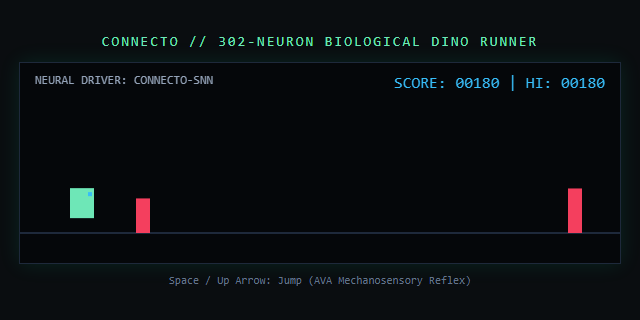
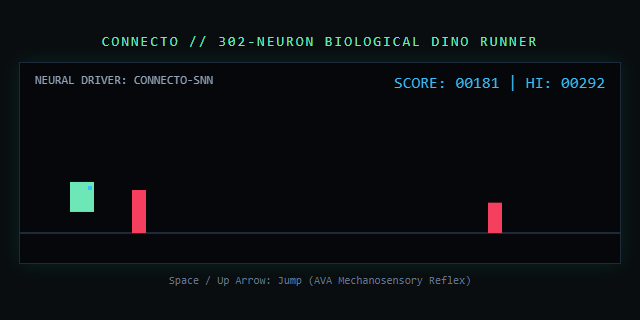
telemetry(worm): autonomous activity sync at 2026-09-16 15:53

diff --git a/ACTIVITY.md b/ACTIVITY.md
@@ -1,6 +1,6 @@
 # CONNECTO // AUTONOMOUS BIOLOGICAL ACTIVITY FEED
 
-> **Verification Timestamp:** `2026-09-16 15:38:17 UTC`  
+> **Verification Timestamp:** `2026-09-16 15:53:57 UTC`  
 > **Repository:** [0xalydev/connecto](https://github.com/0xalydev/connecto)  
 > **Biological Engine:** C. elegans 302-neuron closed-loop SNN (LIF)  
 > **Status:** `ACTIVE_CLOSED_LOOP`  
@@ -11,11 +11,11 @@
 
 *Most recent introspection generated from biological membrane dynamics:*
 
-> **Signature:** `0x38c3975db30f7872`  
+> **Signature:** `0xc6228ff681894125`  
 > **Behavioral State:** `FORAGING_SEARCH`  
-> **Membrane Potential:** `-59.37 mV` | **Locomotion:** `33.6 mm/s`  
+> **Membrane Potential:** `-59.42 mV` | **Locomotion:** `33.6 mm/s`  
 > 
-> *"No nutrient cues detected by amphid receptors. SNN entering stochastic exploration regime. Mean membrane potential holding at resting baseline (-59.37 mV). Undulatory wave slowed to baseline search frequency."*
+> *"Quiescent foraging state. Cholinergic and GABAergic pools balanced in reciprocal inhibition. 302-neuron network processing low-level proprioceptive feedback from body stretch receptors."*
 
 ---
 
@@ -23,8 +23,8 @@
 
 | Metric | Result |
 |---|---|
-| **High Score** | `358` |
-| **Total Reflex Jumps** | `205` (Driven by AVA escape pool) |
+| **High Score** | `292` |
+| **Total Reflex Jumps** | `203` (Driven by AVA escape pool) |
 | **Completed Trials** | `4` |
 | **Proof Snapshot** | `dino_latest_trial.png` |
 
@@ -40,10 +40,10 @@
 
 ## 4. 🌐 Internet Navigation Trajectory (`roam.py`)
 
-- **Current Surface:** `Special pages - Wikipedia`
-- **Navigated URL:** `https://en.wikipedia.org/wiki/MediaWiki:Specialpages-summary`
+- **Current Surface:** `View source for Wikipedia:Contact us - Wikipedia`
+- **Navigated URL:** `https://en.wikipedia.org/wiki/Wikipedia:About`
 - **Last Action:** `CLICK_LINK` (Forward motor wave)
-- **Proof Screenshot:** `roam_step_9.png`
+- **Proof Screenshot:** `roam_step_6.png`
 
 ---
 
